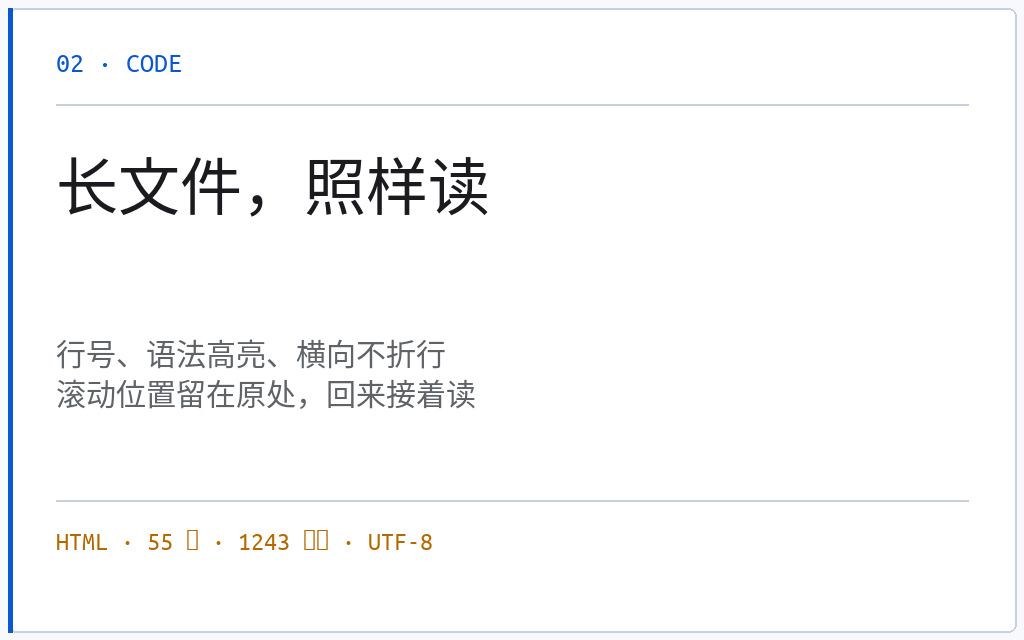
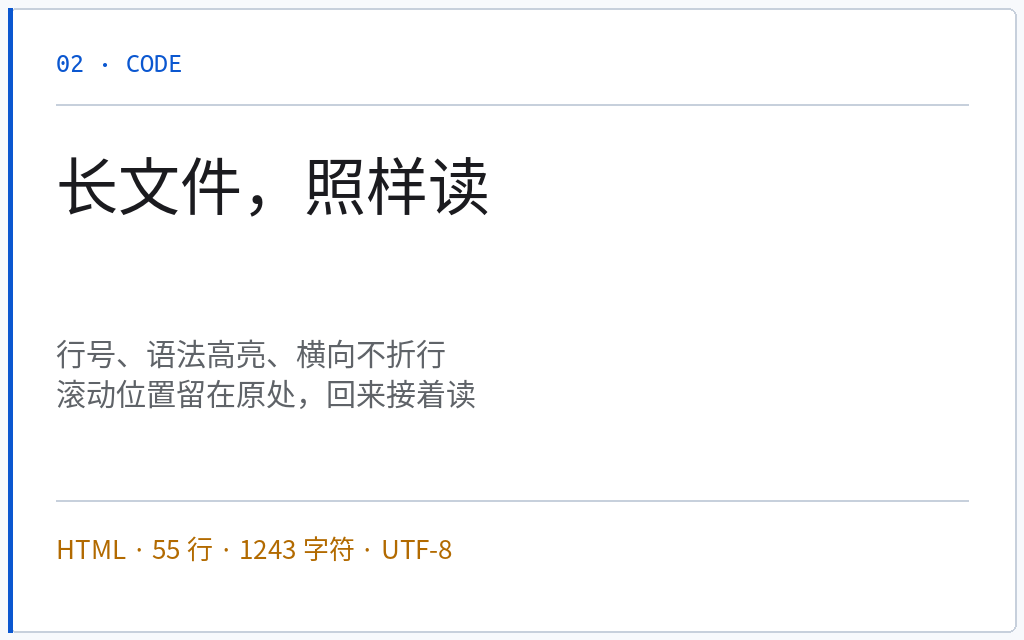
fix(promo): 3D 中文证据行方块 + 片尾相机贴太近
- bake_panels.py: 证据行含中文，Ubuntu Mono 无 CJK 字形会画成方块；
  F_MONO 改走 Noto Sans CJK，11 张面板重新烘焙
- one-shot.js: 相机终点 z -172 -> -158，look-ahead 17 -> 21，
  避免片尾/后段实机截图平面贴脸放大；近场宽度 13 -> 10、
  放大 10% -> 6%，后段构图更稳定
- 抽帧确认亮色 3D、无黑屏、无切镜；lint 0 error

Changed region(s): [[0.0312, 0.8125, 0.4375, 0.875]]

diff --git a/promo/assets/one-shot.js b/promo/assets/one-shot.js
@@ -237,14 +237,15 @@ function smoothstep(a, b, x) {
 
 function poseAt(t) {
   const u = Math.max(0, Math.min(1, t / DUR));
-  // 一镜到底：z 从 +34 到 -172，没有 cut；x/y 用低频正弦制造手持感
+  // 一镜到底：z 从 +34 推进到约 -158（终点站点再留 8 单位余量），
+  // 避免相机贴到片尾截图平面上造成局部放大破图；x/y 用低频正弦制造手持感
   camera.position.set(
     Math.sin(t * 0.055) * 1.15 + Math.sin(t * 0.013) * 0.55,
     3.0 + Math.sin(t * 0.041) * 0.35,
-    34 - u * 206
+    34 - u * 192
   );
   // 始终看向下一站点附近：不是硬切，而是连续 look-ahead
-  const lookZ = camera.position.z - 17;
+  const lookZ = camera.position.z - 21;
   const lookY = 0.4 + Math.sin(t * 0.031) * 0.35;
   camera.lookAt(Math.sin(t * 0.021) * 0.9, lookY, lookZ);
   camera.rotation.z = Math.sin(t * 0.018) * 0.006;
@@ -252,8 +253,8 @@ function poseAt(t) {
   // 站点靠近时从 0.86 放大到 1.0 再缩回，形成「经过」而非「切到」
   stations.forEach((s, i) => {
     const dz = camera.position.z - s.def.z;
-    const near = Math.exp(-Math.pow(dz / 13, 2));
-    const scale = 0.9 + 0.1 * near;
+    const near = Math.exp(-Math.pow(dz / 10, 2));
+    const scale = 0.94 + 0.06 * near;
     s.group.scale.setScalar(scale);
     s.group.position.y = Math.sin(t * 0.5 + i * 0.7) * 0.12 * (1 - near);
     s.group.rotation.y = Math.sin(t * 0.18 + i) * 0.012;

diff --git a/promo/scripts/bake_panels.py b/promo/scripts/bake_panels.py
@@ -44,7 +44,7 @@ def pick(cands, size):
 F_KICK = pick(MONO_CANDIDATES, 28)
 F_TITLE = pick(FONT_CANDIDATES, 62)
 F_BODY = pick(FONT_CANDIDATES, 30)
-F_MONO = pick(MONO_CANDIDATES, 26)
+F_MONO = pick(FONT_CANDIDATES, 26)  # 证据行含中文；Ubuntu Mono 无 CJK 字形，改用 Noto Sans CJK
 
 PANELS = [
     dict(kicker="00 · OGL / v12.6.9",
